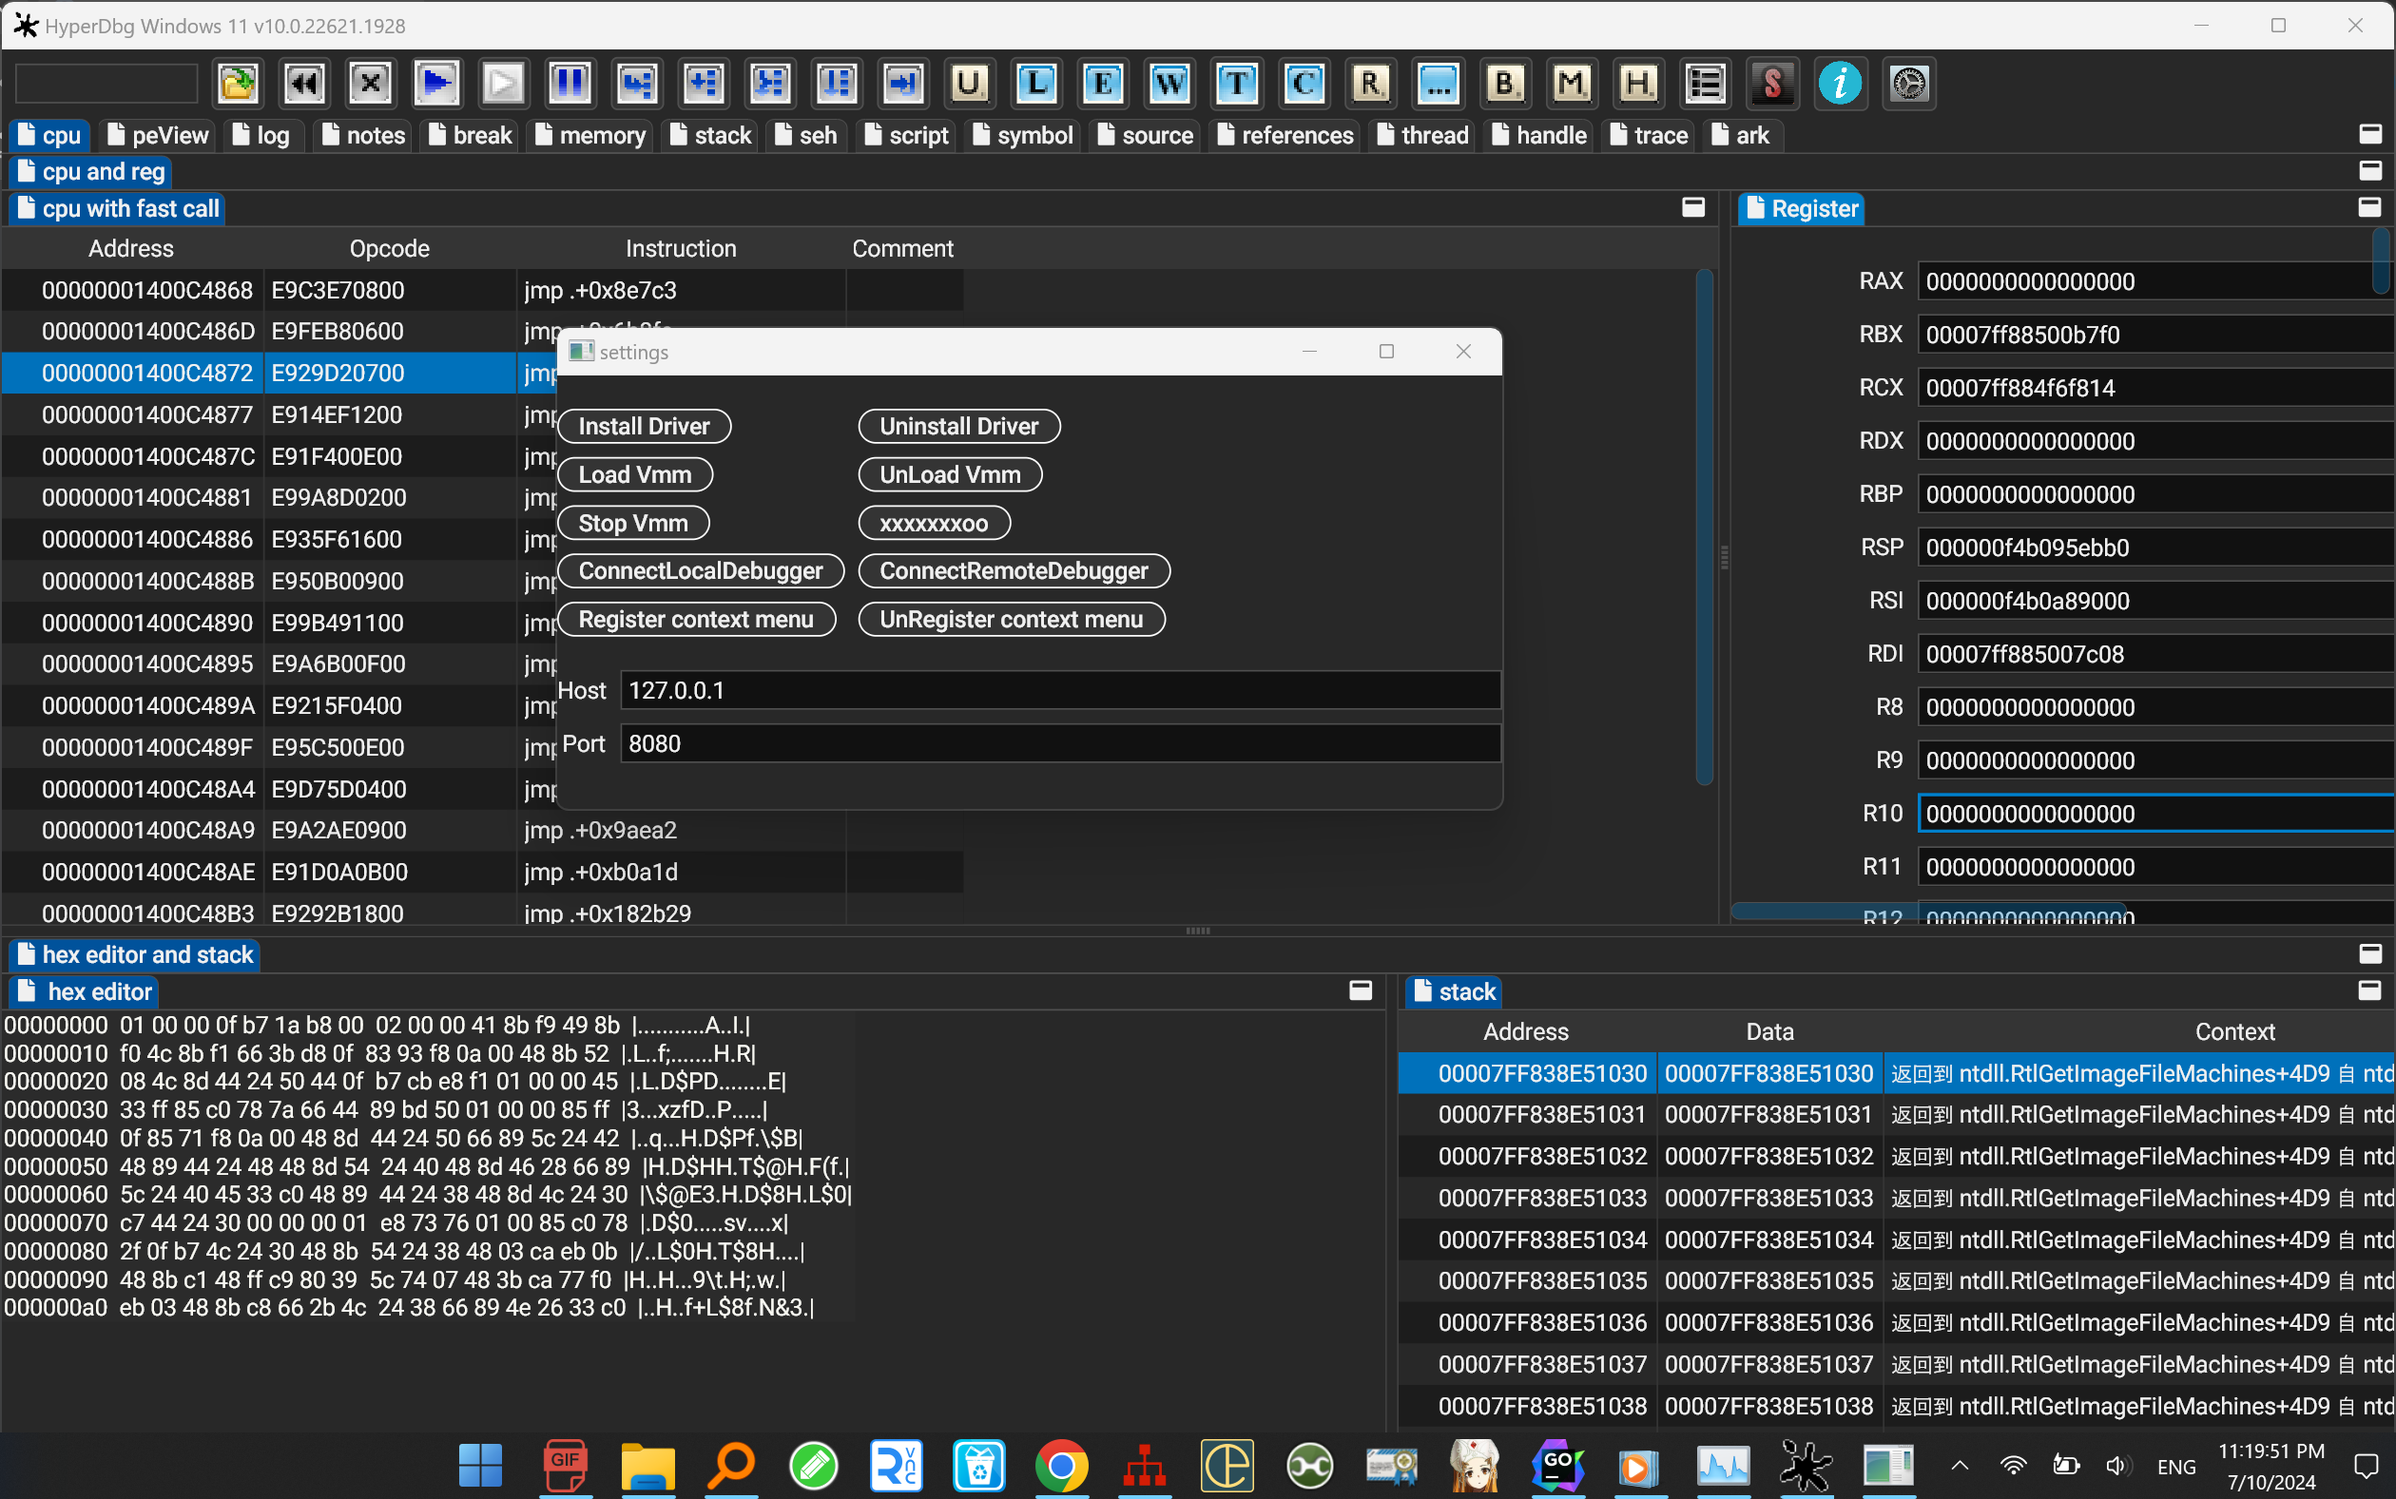
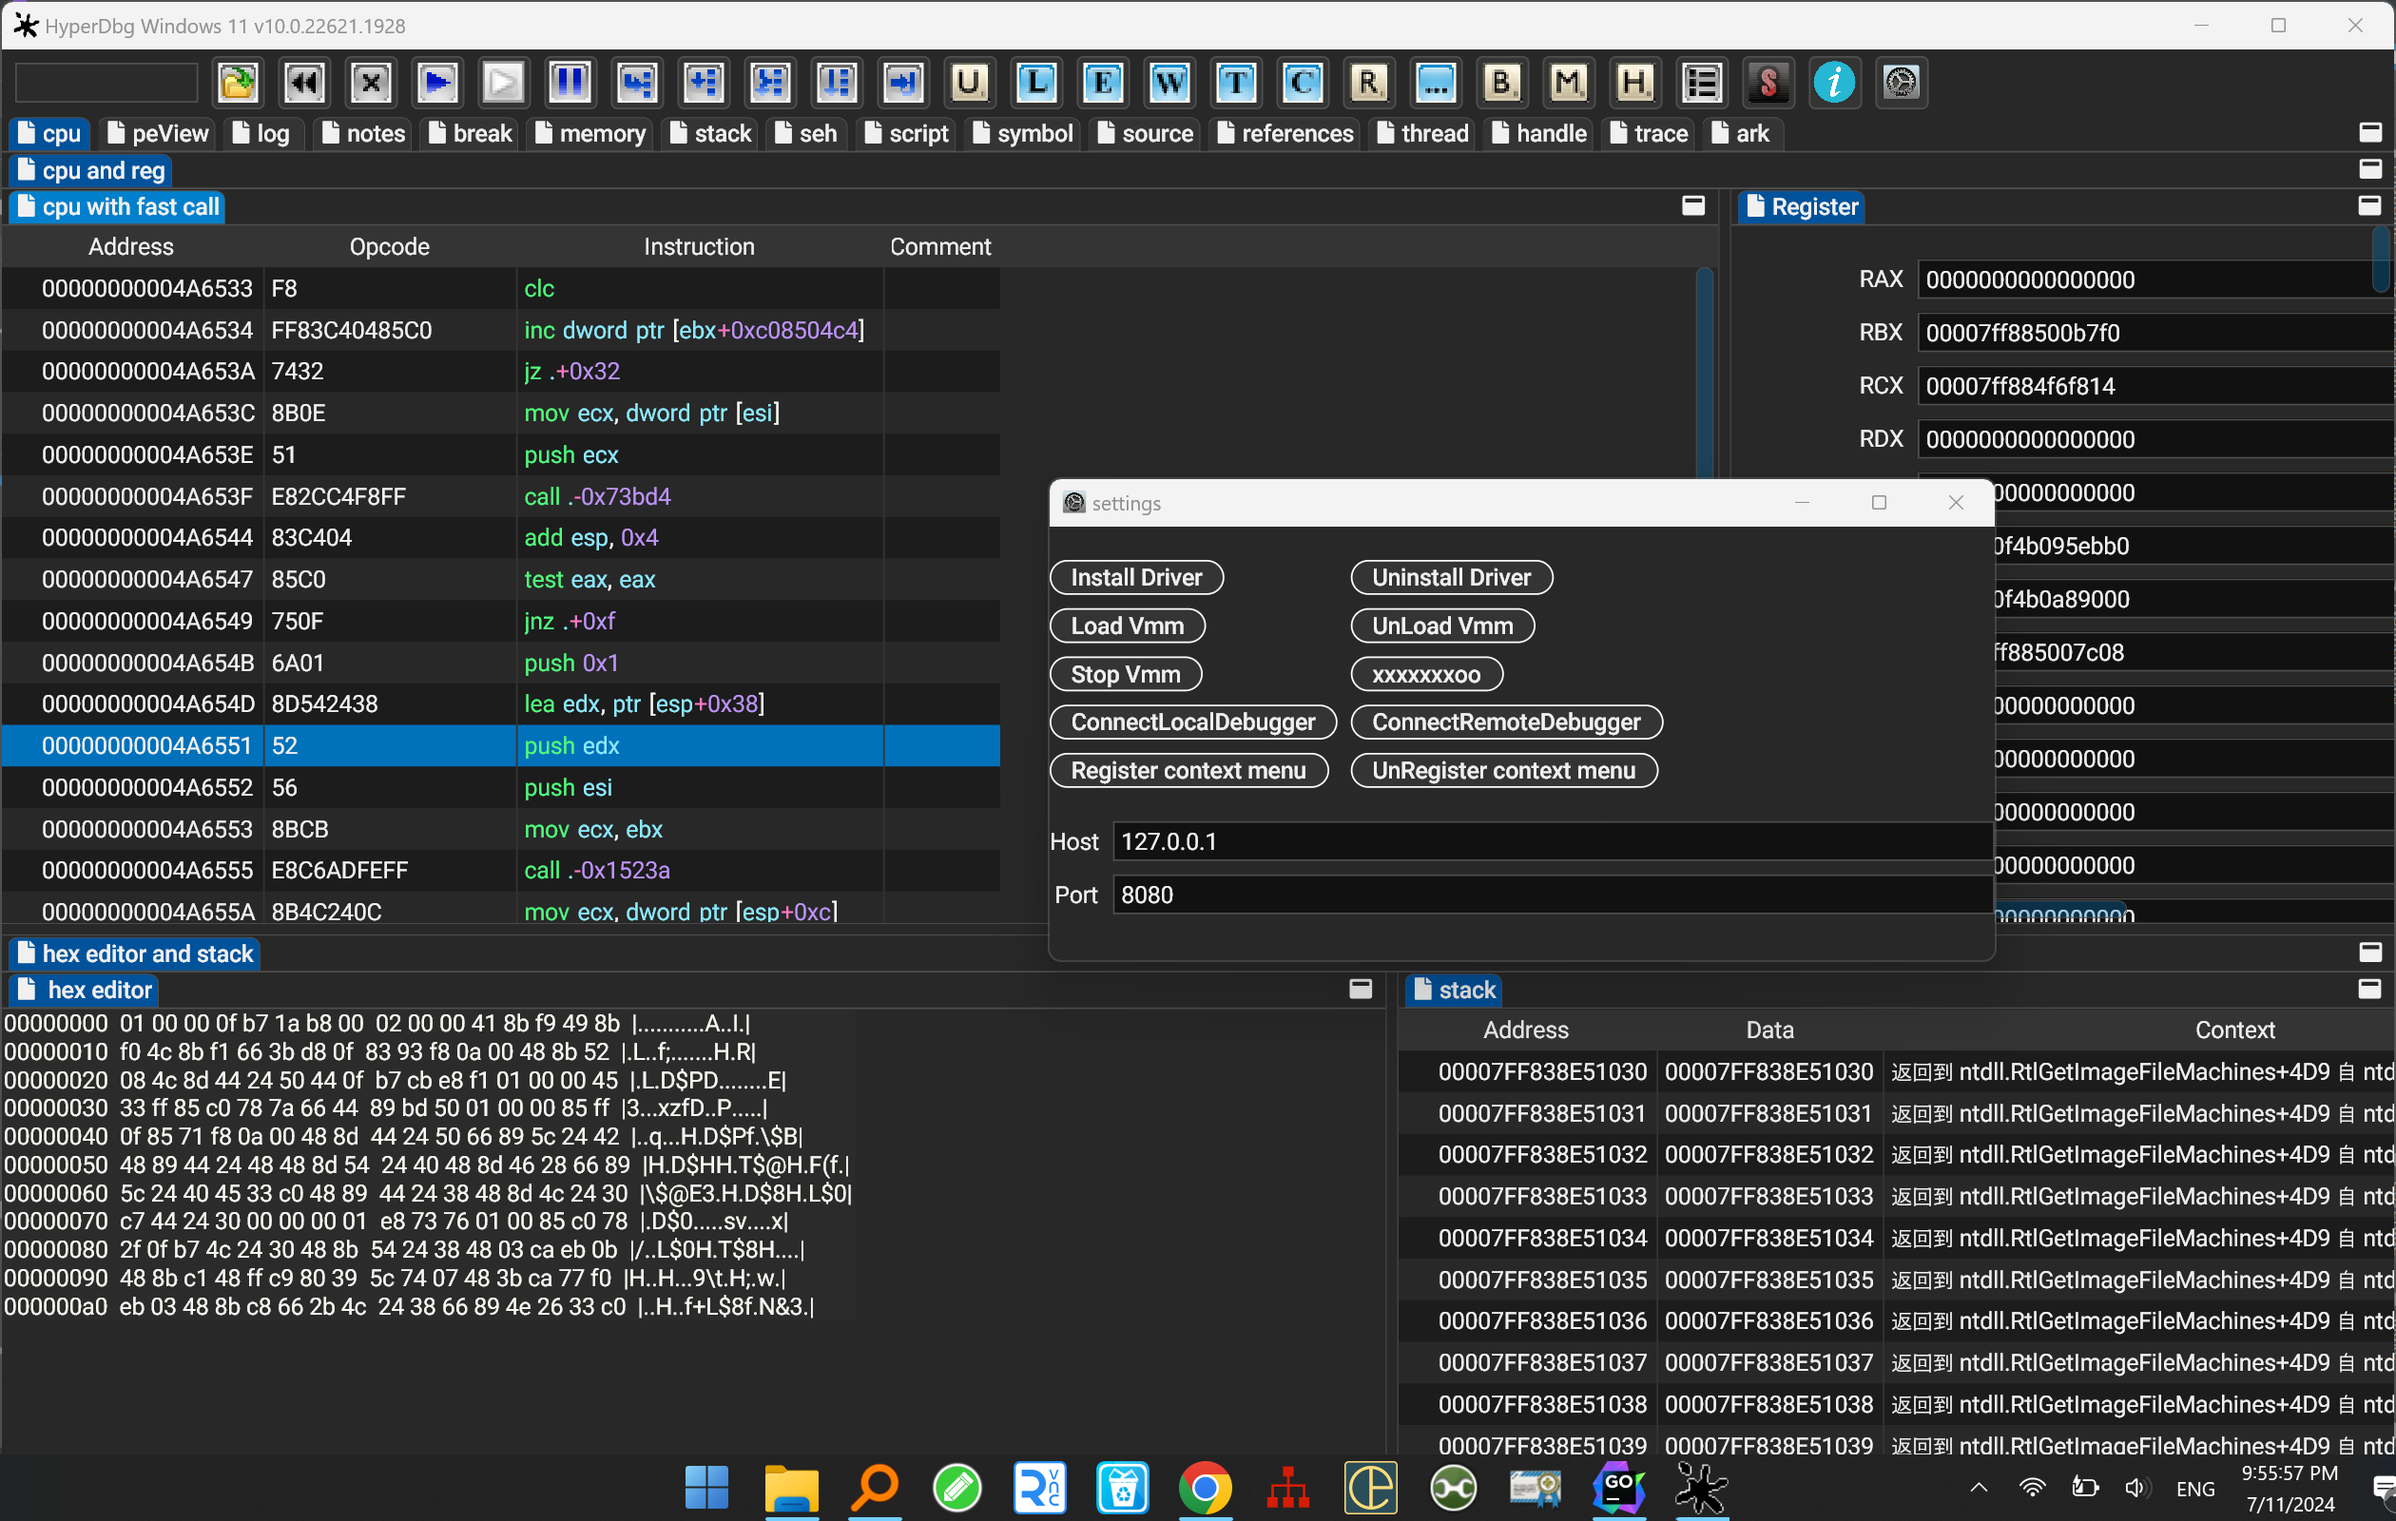
fix https://github.com/HyperDbg/gui/issues/158

Changed region(s): [[0.0, 0.0311, 1.0, 1.0], [0.9595, 0.0932, 1.0, 0.1554], [0.3714, 0.1554, 0.4024, 0.1864]]

diff --git a/main.go b/main.go
@@ -8,8 +8,8 @@ import (
 
 func main() {
 	// testSdkCommands()
-	// ux.Run()
-	testDisassembly()
+	ux.Run()
+	// testDisassembly()
 	// testParsePe()
 	// testScript()
 }
